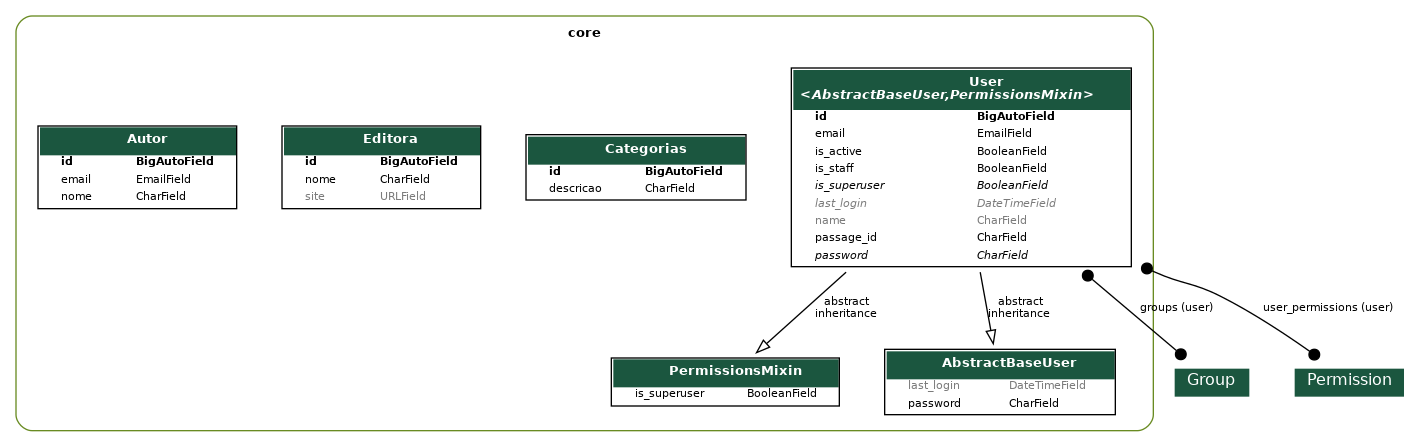
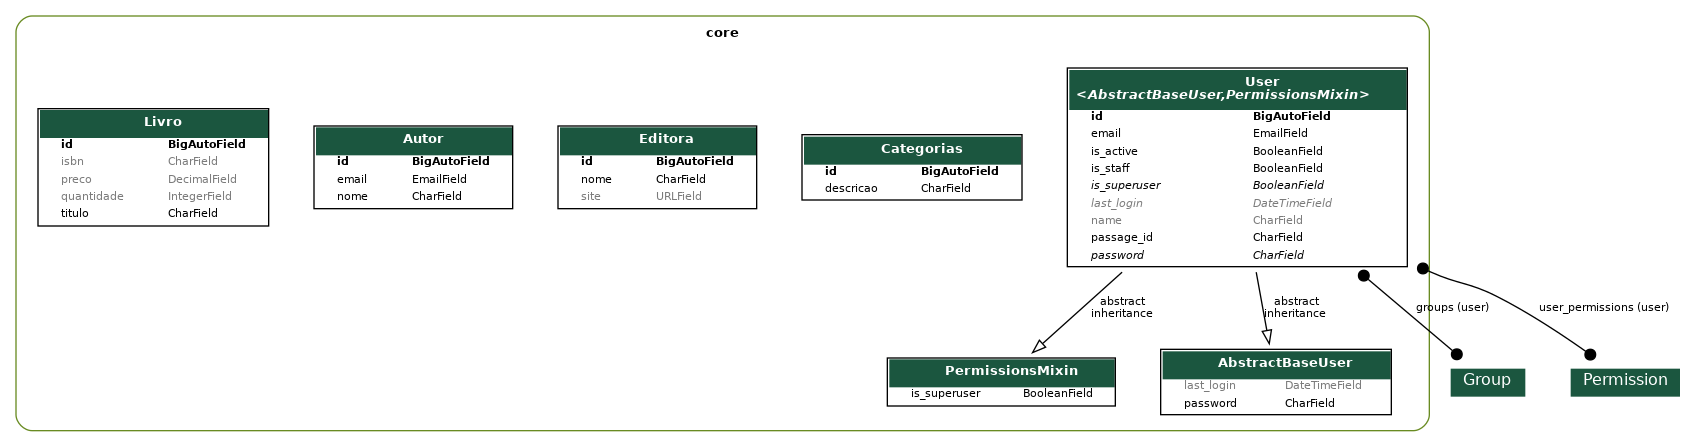
feat: adicionando os livros na API

diff --git a/core/migrations/0008_livro.py b/core/migrations/0008_livro.py
@@ -1,0 +1,23 @@
+# Generated by Django 5.1.7 on 2025-04-07 19:28
+
+from django.db import migrations, models
+
+
+class Migration(migrations.Migration):
+
+    dependencies = [
+        ('core', '0007_autor'),
+    ]
+
+    operations = [
+        migrations.CreateModel(
+            name='Livro',
+            fields=[
+                ('id', models.BigAutoField(auto_created=True, primary_key=True, serialize=False, verbose_name='ID')),
+                ('titulo', models.CharField(max_length=255)),
+                ('isbn', models.CharField(blank=True, max_length=32, null=True)),
+                ('quantidade', models.IntegerField(blank=True, default=0, null=True)),
+                ('preco', models.DecimalField(blank=True, decimal_places=2, default=0, max_digits=7, null=True)),
+            ],
+        ),
+    ]

diff --git a/app/urls.py b/app/urls.py
@@ -6,7 +6,7 @@ from drf_spectacular.views import (
     SpectacularSwaggerView,
 )
 from rest_framework.routers import DefaultRouter
-from core.views import UserViewSet, CategoriaViewSet, EditoraViewSet, AutorViewSet
+from core.views import UserViewSet, CategoriaViewSet, EditoraViewSet, AutorViewSet, LivroViewSet
 
 router = DefaultRouter()
 
@@ -14,6 +14,7 @@ router.register(r'categorias', CategoriaViewSet, basename='categorias')
 router.register(r'usuarios', UserViewSet, basename='usuarios')
 router.register(r"editoras", EditoraViewSet)
 router.register(r"autores", AutorViewSet)
+router.register(r"livros", LivroViewSet)
 
 urlpatterns = [
     path('admin/', admin.site.urls),

diff --git a/core/models/livro.py b/core/models/livro.py
@@ -1,0 +1,10 @@
+from django.db import models
+
+class Livro(models.Model):
+    titulo = models.CharField(max_length=255)
+    isbn = models.CharField(max_length=32, null=True, blank=True)
+    quantidade = models.IntegerField(default=0, null=True, blank=True)
+    preco = models.DecimalField(max_digits=7, decimal_places=2, default=0, null=True, blank=True)
+
+    def __str__(self):
+        return f"({self.id}) {self.titulo} {self.quantidade}"

diff --git a/core/views/livro.py b/core/views/livro.py
@@ -1,0 +1,7 @@
+from rest_framework.viewsets import ModelViewSet
+from core.models import Livro
+from core.serializers import LivroSerializer
+
+class LivroViewSet(ModelViewSet):
+    queryset = Livro.objects.all()
+    serializer_class = LivroSerializer

diff --git a/core/serializers/livro.py b/core/serializers/livro.py
@@ -1,0 +1,7 @@
+from rest_framework.serializers import ModelSerializer
+from core.models import Livro
+
+class LivroSerializer(ModelSerializer):
+    class Meta:
+        model = Livro
+        fields = "__all__"

diff --git a/core/admin.py b/core/admin.py
@@ -56,3 +56,4 @@ admin.site.register(models.User, UserAdmin)
 admin.site.register(models.Categorias)
 admin.site.register(models.Editora)
 admin.site.register(models.Autor)
+admin.site.register(models.Livro)

diff --git a/core/serializers/__init__.py b/core/serializers/__init__.py
@@ -2,3 +2,4 @@ from .user import UserSerializer
 from .categoria import CategoriaSerializer
 from .editora import EditoraSerializer
 from .autor import AutorSerializer
+from .livro import LivroSerializer

diff --git a/core/views/__init__.py b/core/views/__init__.py
@@ -2,3 +2,4 @@ from .user import UserViewSet
 from .categoria import CategoriaViewSet
 from .editora import EditoraViewSet
 from .autor import AutorViewSet
+from .livro import LivroViewSet

diff --git a/core/models/__init__.py b/core/models/__init__.py
@@ -2,3 +2,4 @@ from .user import User
 from .categorias import Categorias
 from .editora import Editora
 from .autor import Autor
+from .livro import Livro
